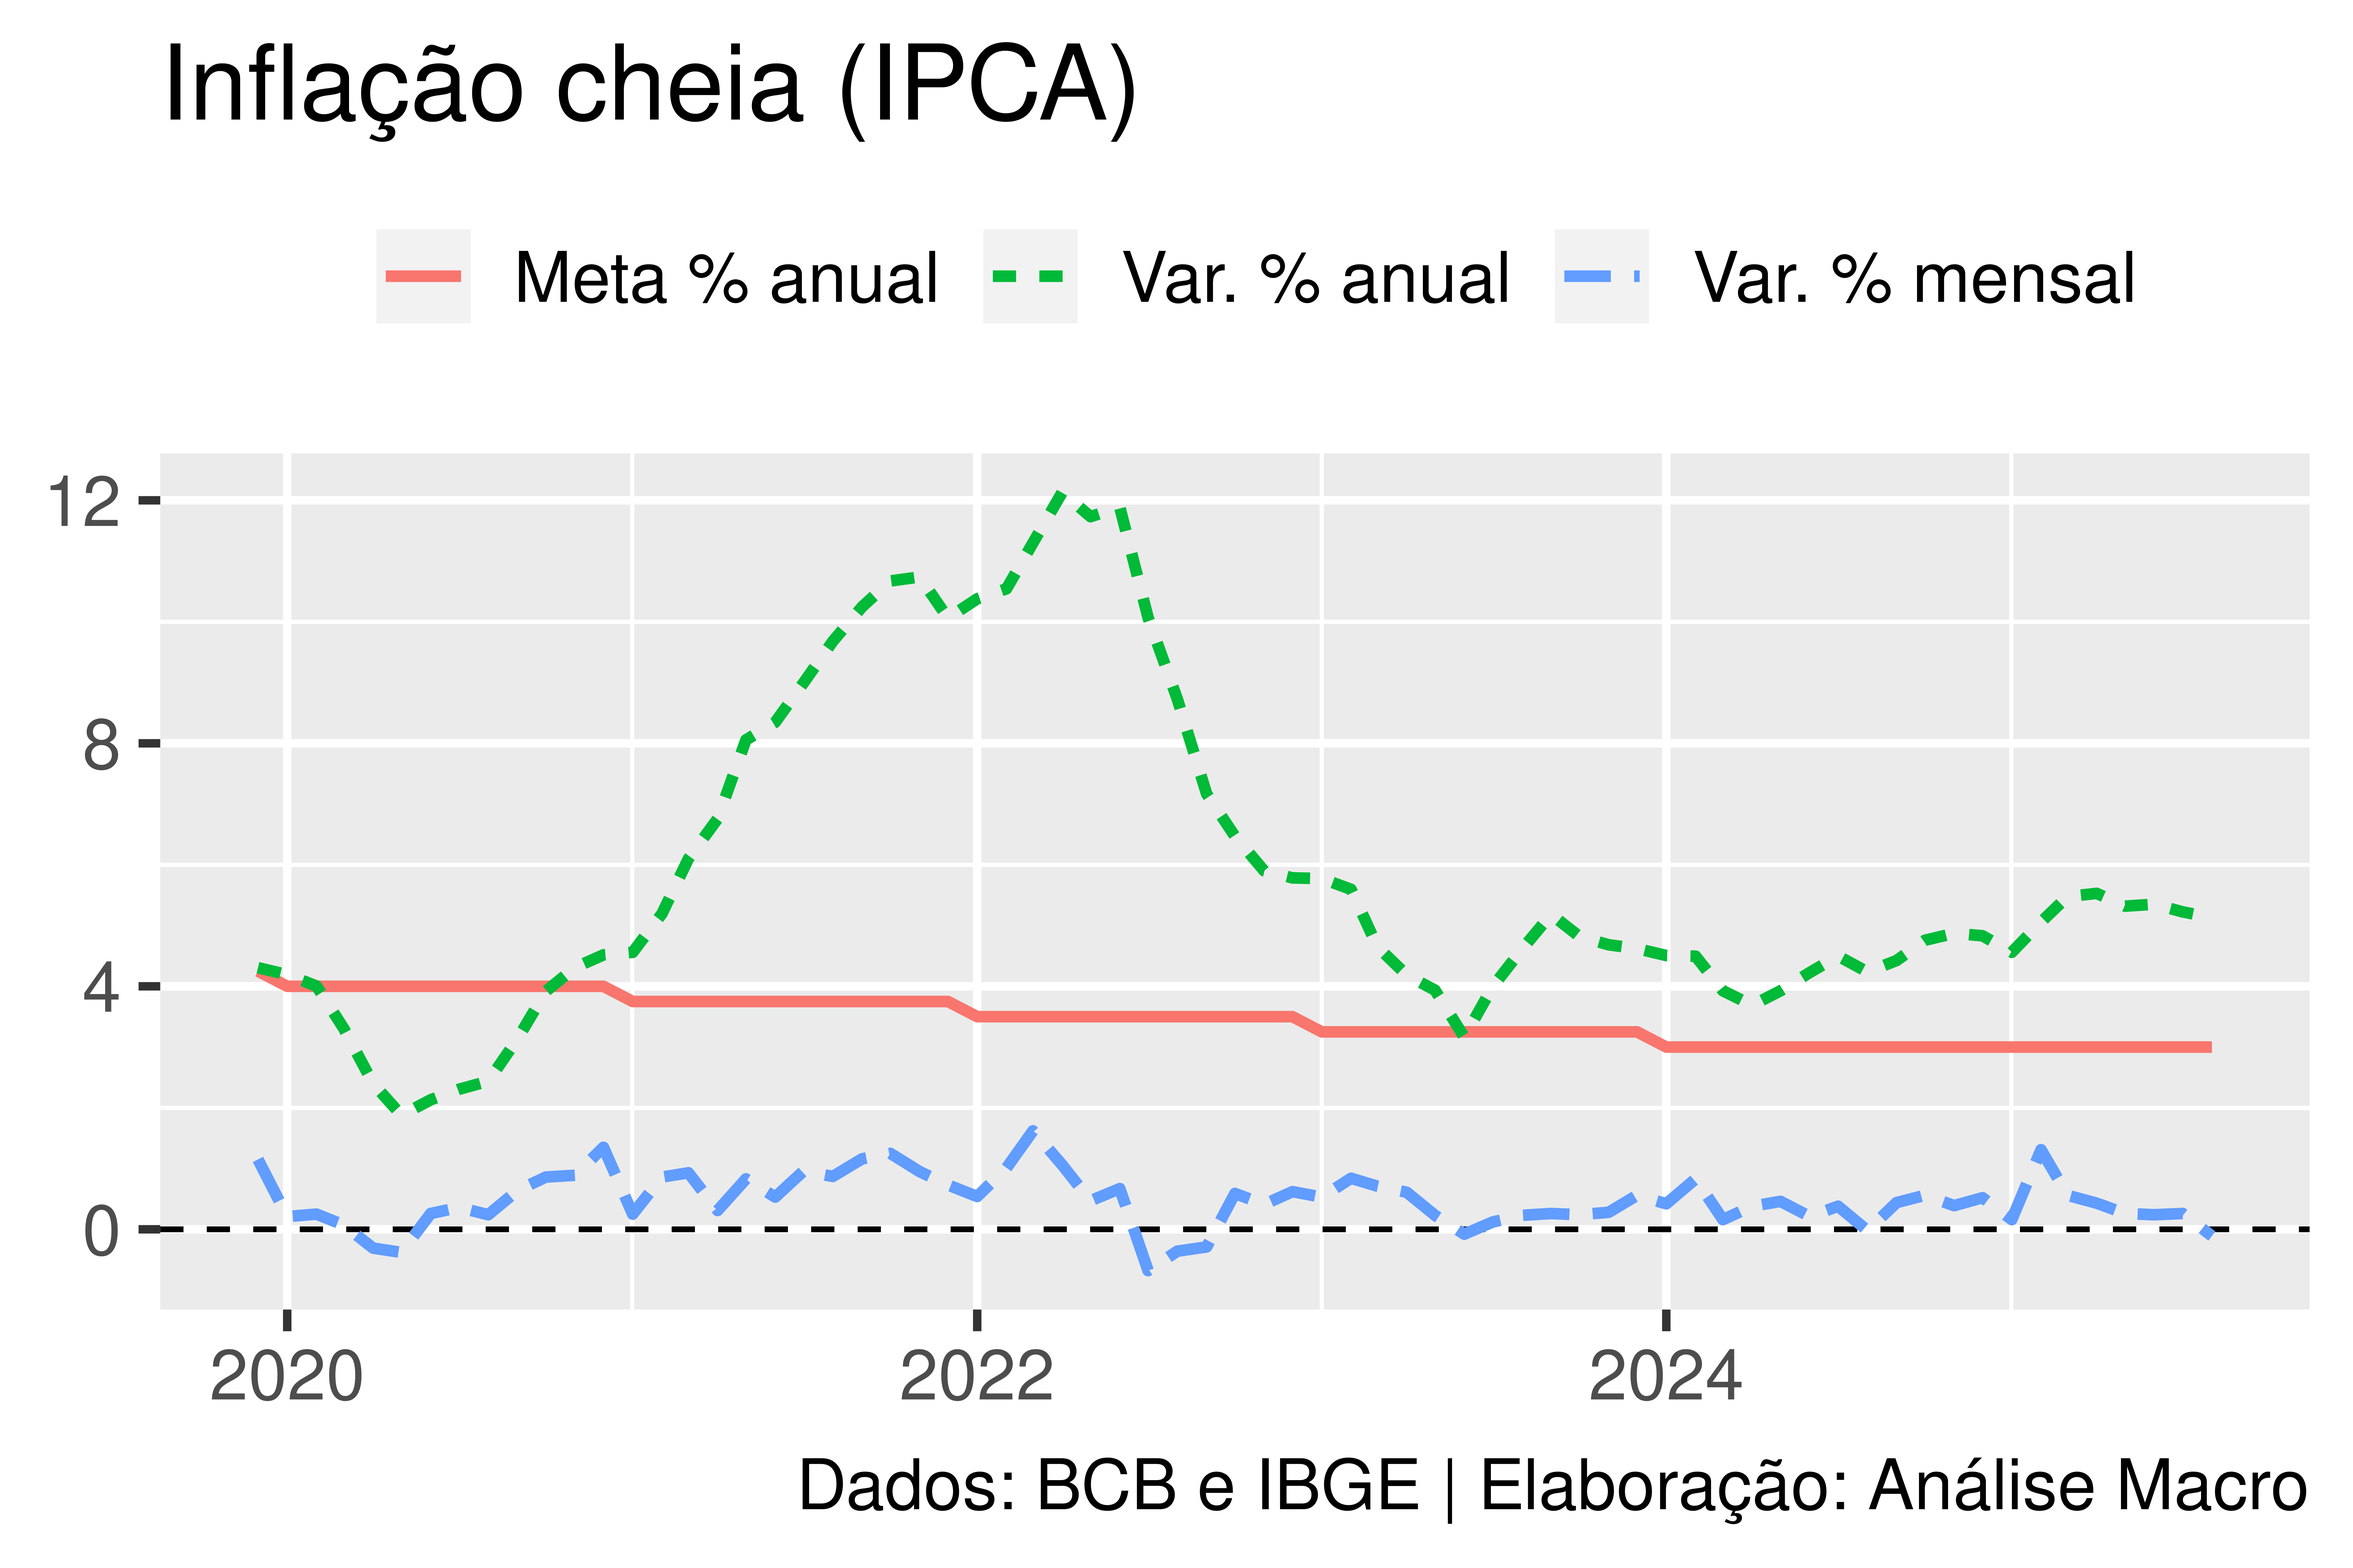
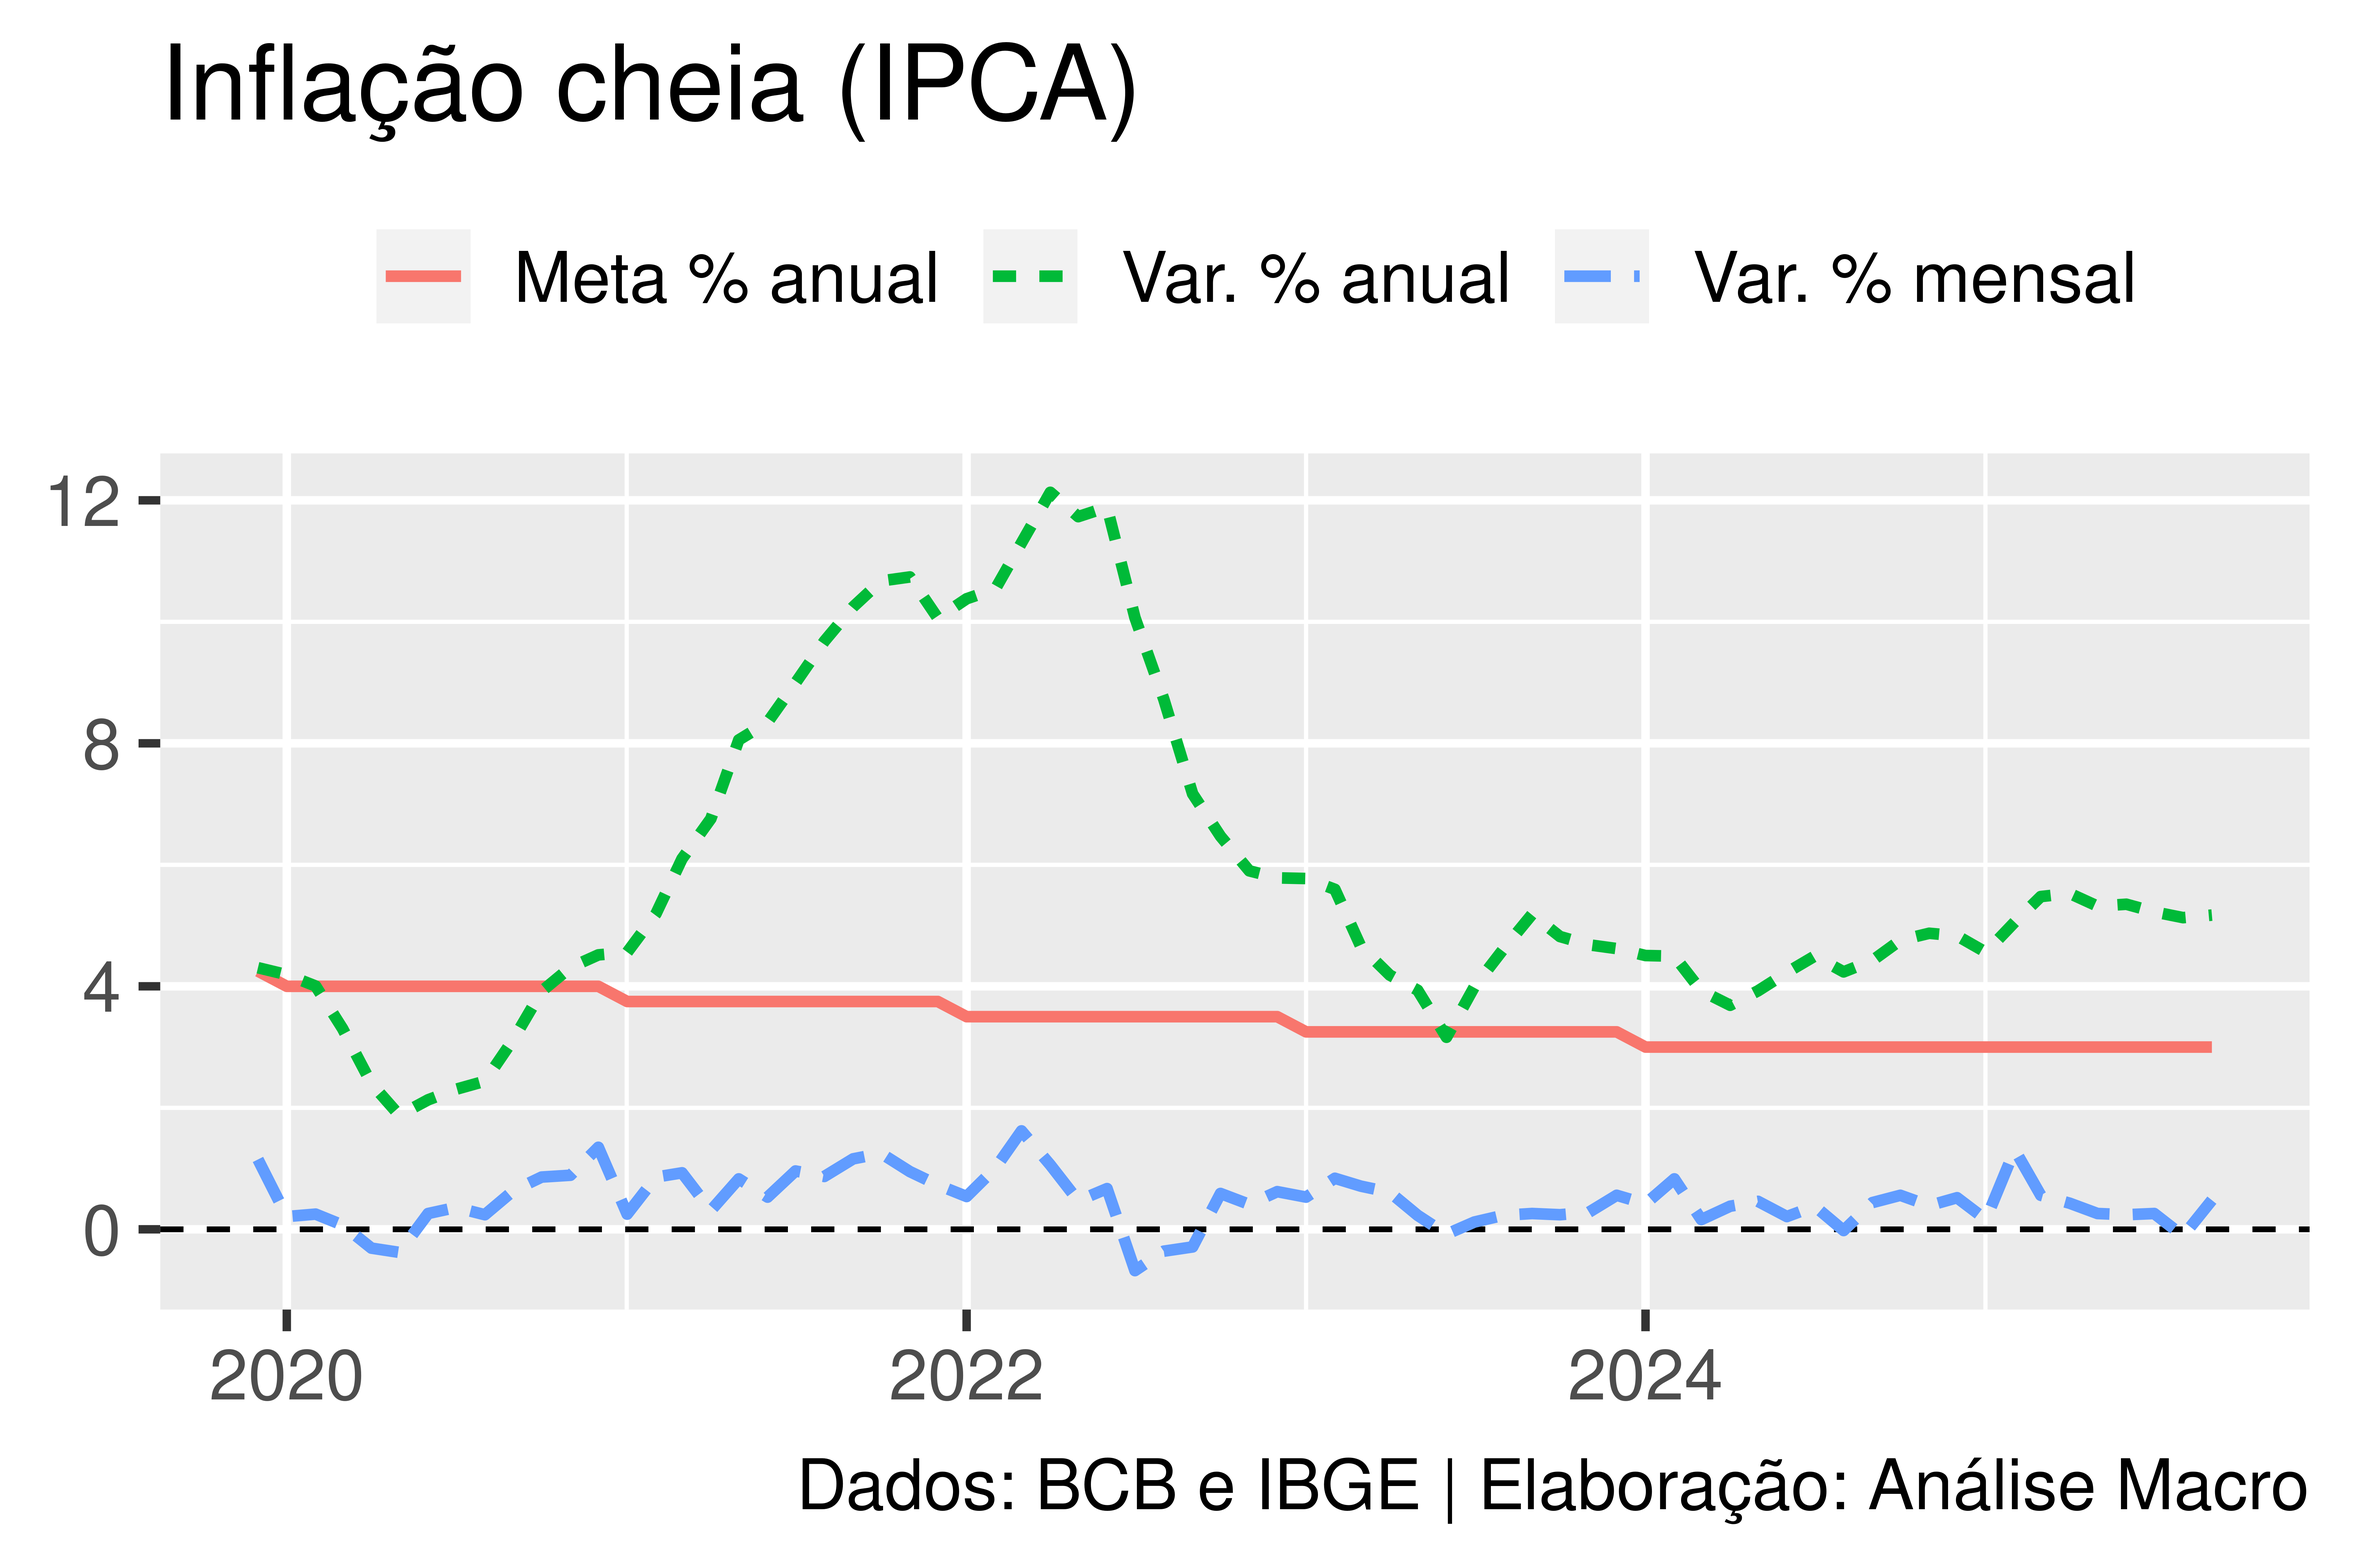
Atualização de relatório automatizada

diff --git a/relatório_ipca/ipca.html b/relatório_ipca/ipca.html
@@ -79,8 +79,8 @@ ul.task-list li input[type="checkbox"] {
 <h2 class="anchored" data-anchor-id="inflação-cheia">Inflação cheia</h2>
 <p>Principais destaques para o Índice nacional de preços ao consumidor-amplo (IPCA):</p>
 <ul>
-<li>O IPCA variou -0,11% no mês de 08/2025 em relação ao mês anterior.</li>
-<li>Em termos anuais, o IPCA acumula 5,13% nos últimos 12 meses.</li>
+<li>O IPCA variou 0,48% no mês de 09/2025 em relação ao mês anterior.</li>
+<li>Em termos anuais, o IPCA acumula 5,17% nos últimos 12 meses.</li>
 <li>Para o ano de 2025 a meta de inflação é de 3,00%. As informações são, quando não explicitamente referenciadas, do IBGE.</li>
 </ul>
 <div class="callout callout-style-default callout-note callout-titled">
